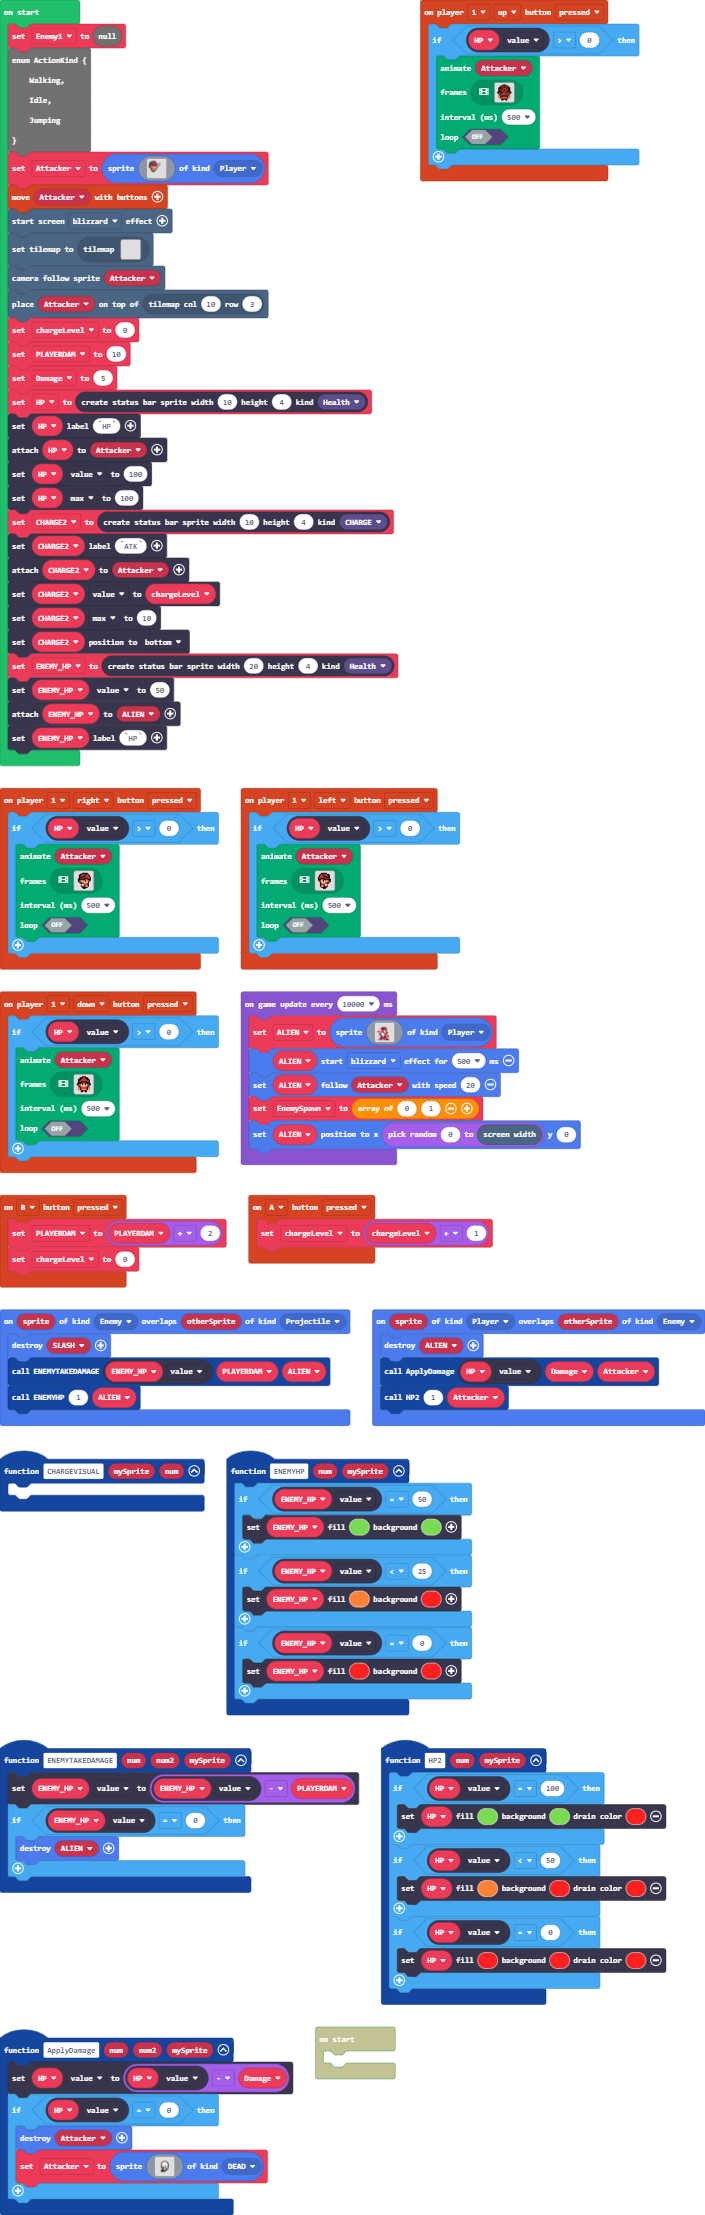
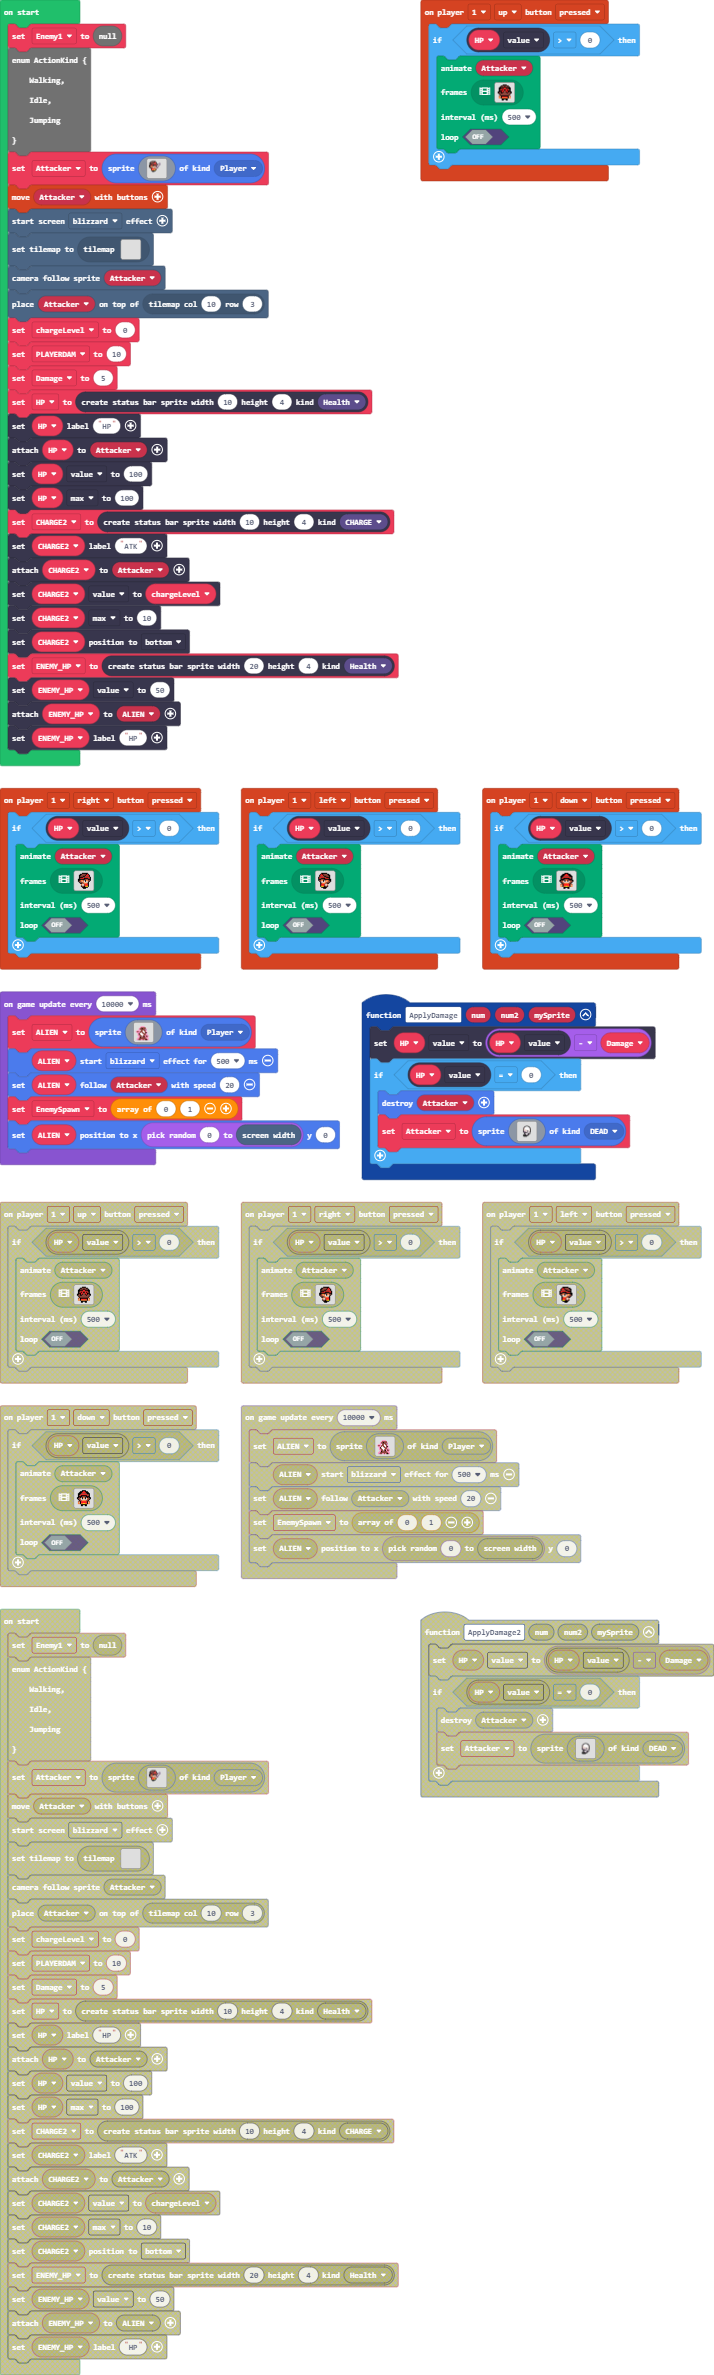
Update main.blocks, main.ts, tilemap.g.jres, tilemap.g.ts

diff --git a/main.ts b/main.ts
@@ -1,18 +1,13 @@
-enum ActionKind {
-    Walking,
-    Idle,
-    Jumping
-}
 namespace SpriteKind {
     export const DEAD = SpriteKind.create()
 }
 namespace StatusBarKind {
     export const CHARGE = StatusBarKind.create()
 }
-function CHARGEVISUAL(mySprite: Sprite, num: number) {
-
+function CHARGEVISUAL (mySprite: Sprite, num: number) {
+	
 }
-function ENEMYHP(num: number, mySprite: Sprite) {
+function ENEMYHP (num: number, mySprite: Sprite) {
     if (ENEMY_HP.value == 50) {
         ENEMY_HP.setColor(7, 7)
     }
@@ -30,8 +25,8 @@ controller.B.onEvent(ControllerButtonEvent.Pressed, function () {
 controller.player1.onButtonEvent(ControllerButton.Up, ControllerButtonEvent.Pressed, function () {
     if (HP.value > 0) {
         animation.runImageAnimation(
-            Attacker,
-            [img`
+        Attacker,
+        [img`
             . . . . . . f f f f . . . . . . 
             . . . . f f e e e e f f . . . . 
             . . . f e e e f f e e e f . . . 
@@ -48,7 +43,7 @@ controller.player1.onButtonEvent(ControllerButton.Up, ControllerButtonEvent.Pres
             . . 4 4 f 4 4 4 4 4 4 f 4 4 . . 
             . . . . . f f f f f f . . . . . 
             . . . . . f f . . f f . . . . . 
-            `, img`
+            `,img`
             . . . . . . . . . . . . . . . . 
             . . . . . . f f f f . . . . . . 
             . . . . f f e e e e f f . . . . 
@@ -65,7 +60,7 @@ controller.player1.onButtonEvent(ControllerButton.Up, ControllerButtonEvent.Pres
             . . . 4 f 2 2 2 2 2 e d d 4 . . 
             . . . e f f f f f f e e 4 . . . 
             . . . . f f f . . . . . . . . . 
-            `, img`
+            `,img`
             . . . . . . f f f f . . . . . . 
             . . . . f f e e e e f f . . . . 
             . . . f e e e f f e e e f . . . 
@@ -82,7 +77,7 @@ controller.player1.onButtonEvent(ControllerButton.Up, ControllerButtonEvent.Pres
             . . 4 4 f 4 4 4 4 4 4 f 4 4 . . 
             . . . . . f f f f f f . . . . . 
             . . . . . f f . . f f . . . . . 
-            `, img`
+            `,img`
             . . . . . . . . . . . . . . . . 
             . . . . . . f f f f . . . . . . 
             . . . . f f e e e e f f . . . . 
@@ -100,15 +95,15 @@ controller.player1.onButtonEvent(ControllerButton.Up, ControllerButtonEvent.Pres
             . . . 4 e e f f f f f f e . . . 
             . . . . . . . . . f f f . . . . 
             `],
-            500,
-            false
+        500,
+        false
         )
     }
 })
 controller.A.onEvent(ControllerButtonEvent.Pressed, function () {
     chargeLevel = chargeLevel + 1
 })
-function ENEMYTAKEDAMAGE(num: number, num2: number, mySprite: Sprite) {
+function ENEMYTAKEDAMAGE (num: number, num2: number, mySprite: Sprite) {
     ENEMY_HP.value = ENEMY_HP.value - PLAYERDAM
     if (ENEMY_HP.value == 0) {
         sprites.destroy(ALIEN)
@@ -123,8 +118,8 @@ sprites.onOverlap(SpriteKind.Enemy, SpriteKind.Projectile, function (sprite, oth
 controller.player1.onButtonEvent(ControllerButton.Right, ControllerButtonEvent.Pressed, function () {
     if (HP.value > 0) {
         animation.runImageAnimation(
-            Attacker,
-            [img`
+        Attacker,
+        [img`
             . . . . . . f f f f f f . . . . 
             . . . . f f e e e e f 2 f . . . 
             . . . f f e e e e f 2 2 2 f . . 
@@ -141,7 +136,7 @@ controller.player1.onButtonEvent(ControllerButton.Right, ControllerButtonEvent.P
             . . . . . f e e f 4 5 5 f . . . 
             . . . . . . f f f f f f . . . . 
             . . . . . . . f f f . . . . . . 
-            `, img`
+            `,img`
             . . . . . . . . . . . . . . . . 
             . . . . . . f f f f f f . . . . 
             . . . . f f e e e e f 2 f . . . 
@@ -158,7 +153,7 @@ controller.player1.onButtonEvent(ControllerButton.Right, ControllerButtonEvent.P
             . . . . f f f e e f 5 5 f f . . 
             . . . . f f f f f f f f f f . . 
             . . . . . f f . . . f f f . . . 
-            `, img`
+            `,img`
             . . . . . . f f f f f f . . . . 
             . . . . f f e e e e f 2 f . . . 
             . . . f f e e e e f 2 2 2 f . . 
@@ -175,7 +170,7 @@ controller.player1.onButtonEvent(ControllerButton.Right, ControllerButtonEvent.P
             . . . . . f e e f 4 5 5 f . . . 
             . . . . . . f f f f f f . . . . 
             . . . . . . . f f f . . . . . . 
-            `, img`
+            `,img`
             . . . . . . . . . . . . . . . . 
             . . . . . . f f f f f f . . . . 
             . . . . f f e e e e f 2 f . . . 
@@ -193,12 +188,12 @@ controller.player1.onButtonEvent(ControllerButton.Right, ControllerButtonEvent.P
             . . . . f f f f f f f f f f . . 
             . . . . . f f . . . f f f . . . 
             `],
-            500,
-            false
+        500,
+        false
         )
     }
 })
-function HP2(num: number, mySprite: Sprite) {
+function HP2 (num: number, mySprite: Sprite) {
     if (HP.value == 100) {
         HP.setColor(7, 7, 2)
     }
@@ -209,7 +204,7 @@ function HP2(num: number, mySprite: Sprite) {
         HP.setColor(2, 2, 2)
     }
 }
-function ApplyDamage(num: number, num2: number, mySprite: Sprite) {
+function ApplyDamage (num: number, num2: number, mySprite: Sprite) {
     HP.value = HP.value - Damage
     if (HP.value == 0) {
         sprites.destroy(Attacker)
@@ -244,8 +239,8 @@ function ApplyDamage(num: number, num2: number, mySprite: Sprite) {
 controller.player1.onButtonEvent(ControllerButton.Left, ControllerButtonEvent.Pressed, function () {
     if (HP.value > 0) {
         animation.runImageAnimation(
-            Attacker,
-            [img`
+        Attacker,
+        [img`
             . . . . f f f f f f . . . . . . 
             . . . f 2 f e e e e f f . . . . 
             . . f 2 2 2 f e e e e f f . . . 
@@ -262,7 +257,7 @@ controller.player1.onButtonEvent(ControllerButton.Left, ControllerButtonEvent.Pr
             . . . f 5 5 4 f e e f . . . . . 
             . . . . f f f f f f . . . . . . 
             . . . . . . f f f . . . . . . . 
-            `, img`
+            `,img`
             . . . . . . . . . . . . . . . . 
             . . . . f f f f f f . . . . . . 
             . . . f 2 f e e e e f f . . . . 
@@ -279,7 +274,7 @@ controller.player1.onButtonEvent(ControllerButton.Left, ControllerButtonEvent.Pr
             . . f f 5 5 f e e f f f . . . . 
             . . f f f f f f f f f f . . . . 
             . . . f f f . . . f f . . . . . 
-            `, img`
+            `,img`
             . . . . f f f f f f . . . . . . 
             . . . f 2 f e e e e f f . . . . 
             . . f 2 2 2 f e e e e f f . . . 
@@ -296,7 +291,7 @@ controller.player1.onButtonEvent(ControllerButton.Left, ControllerButtonEvent.Pr
             . . . f 5 5 4 f e e f . . . . . 
             . . . . f f f f f f . . . . . . 
             . . . . . . f f f . . . . . . . 
-            `, img`
+            `,img`
             . . . . . . . . . . . . . . . . 
             . . . . f f f f f f . . . . . . 
             . . . f 2 f e e e e f f . . . . 
@@ -314,16 +309,16 @@ controller.player1.onButtonEvent(ControllerButton.Left, ControllerButtonEvent.Pr
             . . f f f f f f f f f f . . . . 
             . . . f f f . . . f f . . . . . 
             `],
-            500,
-            false
+        500,
+        false
         )
     }
 })
 controller.player1.onButtonEvent(ControllerButton.Down, ControllerButtonEvent.Pressed, function () {
     if (HP.value > 0) {
         animation.runImageAnimation(
-            Attacker,
-            [img`
+        Attacker,
+        [img`
             . . . . . . f f f f . . . . . . 
             . . . . f f f 2 2 f f f . . . . 
             . . . f f f 2 2 2 2 f f f . . . 
@@ -340,7 +335,7 @@ controller.player1.onButtonEvent(ControllerButton.Down, ControllerButtonEvent.Pr
             . . 4 4 f 4 4 5 5 4 4 f 4 4 . . 
             . . . . . f f f f f f . . . . . 
             . . . . . f f . . f f . . . . . 
-            `, img`
+            `,img`
             . . . . . . . . . . . . . . . . 
             . . . . . . f f f f . . . . . . 
             . . . . f f f 2 2 f f f . . . . 
@@ -357,7 +352,7 @@ controller.player1.onButtonEvent(ControllerButton.Down, ControllerButtonEvent.Pr
             . . . . f 4 4 5 5 f e e . . . . 
             . . . . f f f f f f f . . . . . 
             . . . . f f f . . . . . . . . . 
-            `, img`
+            `,img`
             . . . . . . f f f f . . . . . . 
             . . . . f f f 2 2 f f f . . . . 
             . . . f f f 2 2 2 2 f f f . . . 
@@ -374,7 +369,7 @@ controller.player1.onButtonEvent(ControllerButton.Down, ControllerButtonEvent.Pr
             . . 4 4 f 4 4 5 5 4 4 f 4 4 . . 
             . . . . . f f f f f f . . . . . 
             . . . . . f f . . f f . . . . . 
-            `, img`
+            `,img`
             . . . . . . . . . . . . . . . . 
             . . . . . . f f f f . . . . . . 
             . . . . f f f 2 2 f f f . . . . 
@@ -392,8 +387,8 @@ controller.player1.onButtonEvent(ControllerButton.Down, ControllerButtonEvent.Pr
             . . . . . f f f f f f f . . . . 
             . . . . . . . . . f f f . . . . 
             `],
-            500,
-            false
+        500,
+        false
         )
     }
 })
@@ -411,6 +406,11 @@ let PLAYERDAM = 0
 let chargeLevel = 0
 let Attacker: Sprite = null
 let Enemy1 = null
+enum ActionKind {
+    Walking,
+    Idle,
+    Jumping
+}
 Attacker = sprites.create(img`
     ........................
     ....ffffff..............
@@ -439,7 +439,7 @@ Attacker = sprites.create(img`
     `, SpriteKind.Player)
 controller.moveSprite(Attacker)
 effects.blizzard.startScreenEffect()
-tiles.setCurrentTilemap(tilemap`level3`)
+tiles.setCurrentTilemap(tilemap`level1`)
 scene.cameraFollowSprite(Attacker)
 tiles.placeOnTile(Attacker, tiles.getTileLocation(10, 3))
 chargeLevel = 0
@@ -484,4 +484,3 @@ game.onUpdateInterval(10000, function () {
     EnemySpawn = [0, 1]
     ALIEN.setPosition(randint(0, scene.screenWidth()), 0)
 })
-

diff --git a/tilemap.g.ts b/tilemap.g.ts
@@ -1,27 +1,10 @@
 // Auto-generated code. Do not edit.
 namespace myTiles {
+    //% fixedInstance jres blockIdentity=images._tile
+    export const transparency16 = image.ofBuffer(hex``);
 
     helpers._registerFactory("tilemap", function(name: string) {
         switch(helpers.stringTrim(name)) {
-            case "level1":
-            case "level1":return tiles.createTilemap(hex`1000100000000000000000000000000000000000000000000000000000000000000000000000000000000000000000000000000000000000000000000000000000000000000000000000000000000000000000000000000000000000000000000000000000000000000000000000000000000000000000000000000000000000000000000000000000000000000000000000000000000000000000000000000000000000000000000000000000000000000000000000000000000000000000000000000000000000000000000000000000000000000000000000000000000000000000000000000000000000000000000000000000000000000000000000000000000000`, img`
-. . . . . . . . . . . . . . . . 
-. . . . . . . . . . . . . . . . 
-. . . . . . . . . . . . . . . . 
-. . . . . . . . . . . . . . . . 
-. . . . . . . . . . . . . . . . 
-. . . . . . . . . . . . . . . . 
-. . . . . . . . . . . . . . . . 
-. . . . . . . . . . . . . . . . 
-. . . . . . . . . . . . . . . . 
-. . . . . . . . . . . . . . . . 
-. . . . . . . . . . . . . . . . 
-. . . . . . . . . . . . . . . . 
-. . . . . . . . . . . . . . . . 
-. . . . . . . . . . . . . . . . 
-. . . . . . . . . . . . . . . . 
-. . . . . . . . . . . . . . . . 
-`, [], -Infinity);
             case "level2":
             case "level2":return tiles.createTilemap(hex`1000100000000000000000000000000000000000000000000000000000000000000000000000000000000000000000000000000000000000000000000000000000000000000000000000000000000000000000000000000000000000000000000000000000000000000000000000000000000000000000000000000000000000000000000000000000000000000000000000000000000000000000000000000000000000000000000000000000000000000000000000000000000000000000000000000000000000000000000000000000000000000000000000000000000000000000000000000000000000000000000000000000000000000000000000000000000000`, img`
 . . . . . . . . . . . . . . . . 
@@ -41,6 +24,51 @@ namespace myTiles {
 . . . . . . . . . . . . . . . . 
 . . . . . . . . . . . . . . . . 
 `, [], -Infinity);
+            case "level3":
+            case "level3":return tiles.createTilemap(hex`1000100000000000000000000000000000000000000000000000000000000000000000000000000000000000000000000000000000000000000000000000000000000000000000000000000000000000000000000000000000000000000000000000000000000000000000000000000000000000000000000000000000000000000000000000000000000000000000000000000000000000000000000000000000000000000000000000000000000000000000000000000000000000000000000000000000000000000000000000000000000000000000000000000000000000000000000000000000000000000000000000000000000000000000000000000000000000`, img`
+. . . . . . . . . . . . . . . . 
+. . . . . . . . . . . . . . . . 
+. . . . . . . . . . . . . . . . 
+. . . . . . . . . . . . . . . . 
+. . . . . . . . . . . . . . . . 
+. . . . . . . . . . . . . . . . 
+. . . . . . . . . . . . . . . . 
+. . . . . . . . . . . . . . . . 
+. . . . . . . . . . . . . . . . 
+. . . . . . . . . . . . . . . . 
+. . . . . . . . . . . . . . . . 
+. . . . . . . . . . . . . . . . 
+. . . . . . . . . . . . . . . . 
+. . . . . . . . . . . . . . . . 
+. . . . . . . . . . . . . . . . 
+. . . . . . . . . . . . . . . . 
+`, [myTiles.transparency16], TileScale.Sixteen);
+            case "level1":
+            case "level1":return tiles.createTilemap(hex`1000100000000000000000000000000000000000000000000000000000000000000000000000000000000000000000000000000000000000000000000000000000000000000000000000000000000000000000000000000000000000000000000000000000000000000000000000000000000000000000000000000000000000000000000000000000000000000000000000000000000000000000000000000000000000000000000000000000000000000000000000000000000000000000000000000000000000000000000000000000000000000000000000000000000000000000000000000000000000000000000000000000000000000000000000000000000000`, img`
+. . . . . . . . . . . . . . . . 
+. . . . . . . . . . . . . . . . 
+. . . . . . . . . . . . . . . . 
+. . . . . . . . . . . . . . . . 
+. . . . . . . . . . . . . . . . 
+. . . . . . . . . . . . . . . . 
+. . . . . . . . . . . . . . . . 
+. . . . . . . . . . . . . . . . 
+. . . . . . . . . . . . . . . . 
+. . . . . . . . . . . . . . . . 
+. . . . . . . . . . . . . . . . 
+. . . . . . . . . . . . . . . . 
+. . . . . . . . . . . . . . . . 
+. . . . . . . . . . . . . . . . 
+. . . . . . . . . . . . . . . . 
+. . . . . . . . . . . . . . . . 
+`, [], -Infinity);
+        }
+        return null;
+    })
+
+    helpers._registerFactory("tile", function(name: string) {
+        switch(helpers.stringTrim(name)) {
+            case "transparency16":return transparency16;
         }
         return null;
     })
